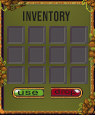
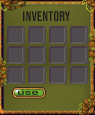
inv

Changed region(s): [[0.5263, 0.7565, 0.8842, 0.8609], [0.4211, 0.7565, 0.4842, 0.8609]]

diff --git a/home.html b/home.html
@@ -5,14 +5,16 @@
     <meta charset="UTF-8">
     <meta name="viewport" content="width=device-width, initial-scale=1.0">
     <meta http-equiv="X-UA-Compatible" content="ie=edge">
+    <link rel="stylesheet" href="style.css">
     <title>Home</title>
 </head>
 
 <body style="margin:0">
     <div style="background-image:url('assets/sb.gif');  height: 600px;width: 800px;">
+        <h1 class="homeHeader">Escape The Forest</h1>
         <a href="part1.html"><input type="button" value="" style="background: url('assets/startBtn.png');
             
-            margin: 403px 280px;
+            margin: 103px 280px;
             width: 195px;
             height: 110px;
             border: 2px;"></a>

diff --git a/part1.html b/part1.html
@@ -155,7 +155,7 @@
             this.load.image('pipe', 'assets/pipe.png');
             this.load.image('wallDoor', 'assets/64x64_wall.png');
             // this.load.image('Cavern', 'assets/canverns.png');
-            this.load.image('inventory', 'assets/inventory2.png');
+            this.load.image('inventory', 'assets/inventory3.png');
             this.load.image('sky', 'assets/sky.png');
 
             this.load.spritesheet('dude', 'assets/dude.png', { frameWidth: 32, frameHeight: 48 });

diff --git a/style.css b/style.css
@@ -81,3 +81,9 @@
     opacity: 0.5;
 }
 
+.homeHeader{
+    color:rgb(247, 212, 98);margin: 0px 260px; padding-top: 200px;
+    font-family: Arial, Helvetica, sans-serif;
+    font-variant: small-caps;
+    text-shadow: 4px 2px 2px rgb(0, 80, 0);
+}
